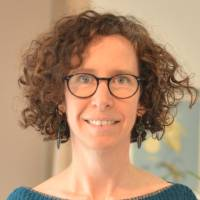
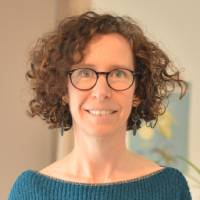
change portrait image

diff --git a/src/index.html b/src/index.html
@@ -32,7 +32,7 @@ showName: false
 
 <section>
   <div class="image">
-    <img src="/img/index-2.jpg" class="pic" alt="Mon portrait"/>
+    <img src="/img/index-3.jpg" class="pic" alt="Mon portrait"/>
   </div>
   <h2>Mon parcours</h2>
   <div class="content">
